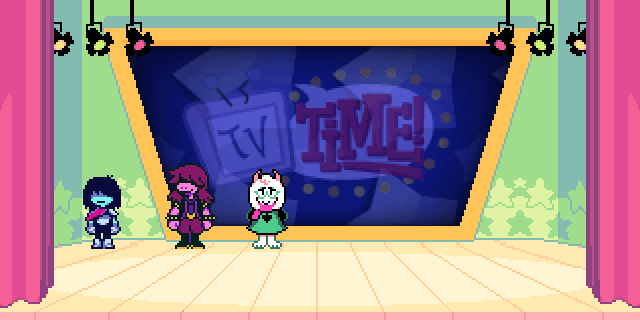
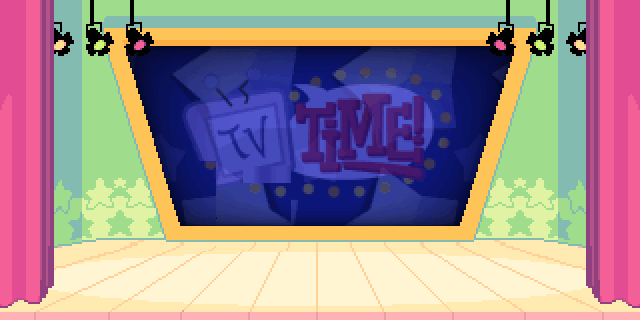
feat(tvtime): just you on Tenna's stage, no Deltarune party
Erase Kris, Susie and Ralsei from stage-bg (mirrored wall/floor patch),
crop podium.png to a single YOU frame and drop the other two podiums.

Claude-Session: https://claude.ai/code/session_01EjCRCjefATtQ64zBboXm1q

Changed region(s): [[0.25, 0.5, 0.3438, 0.7812], [0.375, 0.5312, 0.4688, 0.7812], [0.125, 0.5312, 0.1875, 0.7812]]

diff --git a/css/style.css b/css/style.css
@@ -1200,15 +1200,12 @@ body.is-blackout::before {
   background: #000 url(../img/act4/deltarune/tvtime/stage-bg.png) 0 0 / 100% 100% no-repeat;
   image-rendering: pixelated;
 }
-/* name podiums: 12-frame strip, one frame each */
+/* the one contestant podium: YOU, where the party stood */
 .quiz__pod {
-  position: absolute; bottom: 8.125%; width: 10.625%; height: 27.5%;
-  background: url(../img/act4/deltarune/tvtime/podium.png) 0 0 / 1200% 100% no-repeat;
+  position: absolute; bottom: 8.125%; left: 23.75%; width: 10.625%; height: 27.5%;
+  background: url(../img/act4/deltarune/tvtime/podium.png) 0 0 / 100% 100% no-repeat;
   image-rendering: pixelated;
 }
-.quiz__pod:nth-of-type(1) { left: 10.625%; background-position: 0 0; }
-.quiz__pod:nth-of-type(2) { left: 23.75%; background-position: 36.364% 0; }
-.quiz__pod:nth-of-type(3) { left: 36.875%; background-position: 72.727% 0; }
 /* crowd band behind the dialog box: 3 frames, 4.5 fps */
 .quiz__set::after {
   content: ''; position: absolute; left: 0; width: 100%; top: 100%; height: 12.5%;

diff --git a/index.html b/index.html
@@ -221,7 +221,7 @@
           <span class="quiz__num" id="quizNum"></span>
         </div>
         <div class="quiz__set">
-          <i class="quiz__pod" aria-hidden="true"></i><i class="quiz__pod" aria-hidden="true"></i><i class="quiz__pod" aria-hidden="true"></i>
+          <i class="quiz__pod" aria-hidden="true"></i>
           <div class="quiz__tenna" id="quizTenna" aria-hidden="true"></div>
           <div class="quiz__board" id="quizBoard" aria-label="rank thresholds"></div>
           <div class="quiz__round" id="quizRound" hidden></div>
